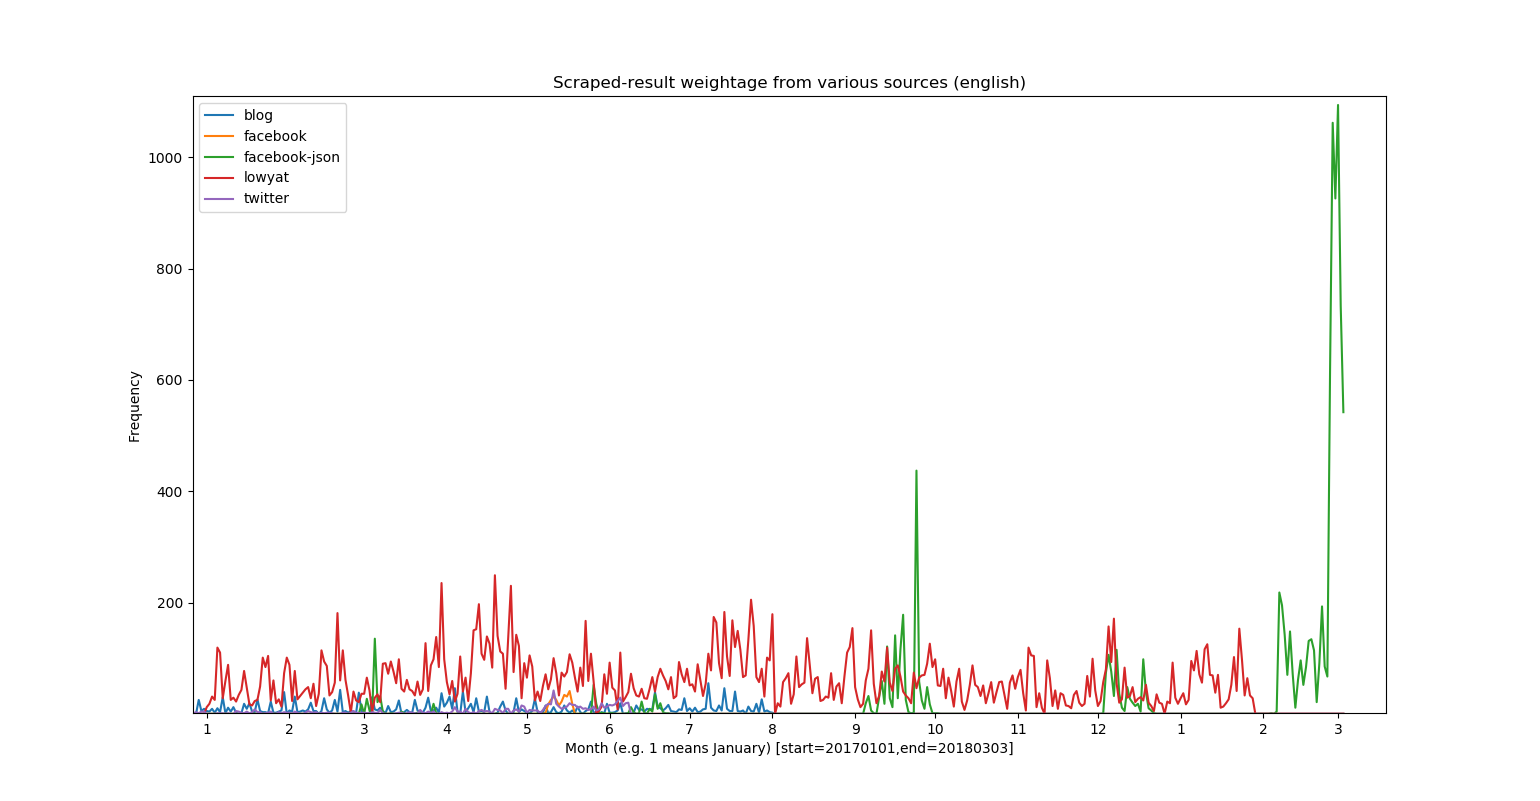
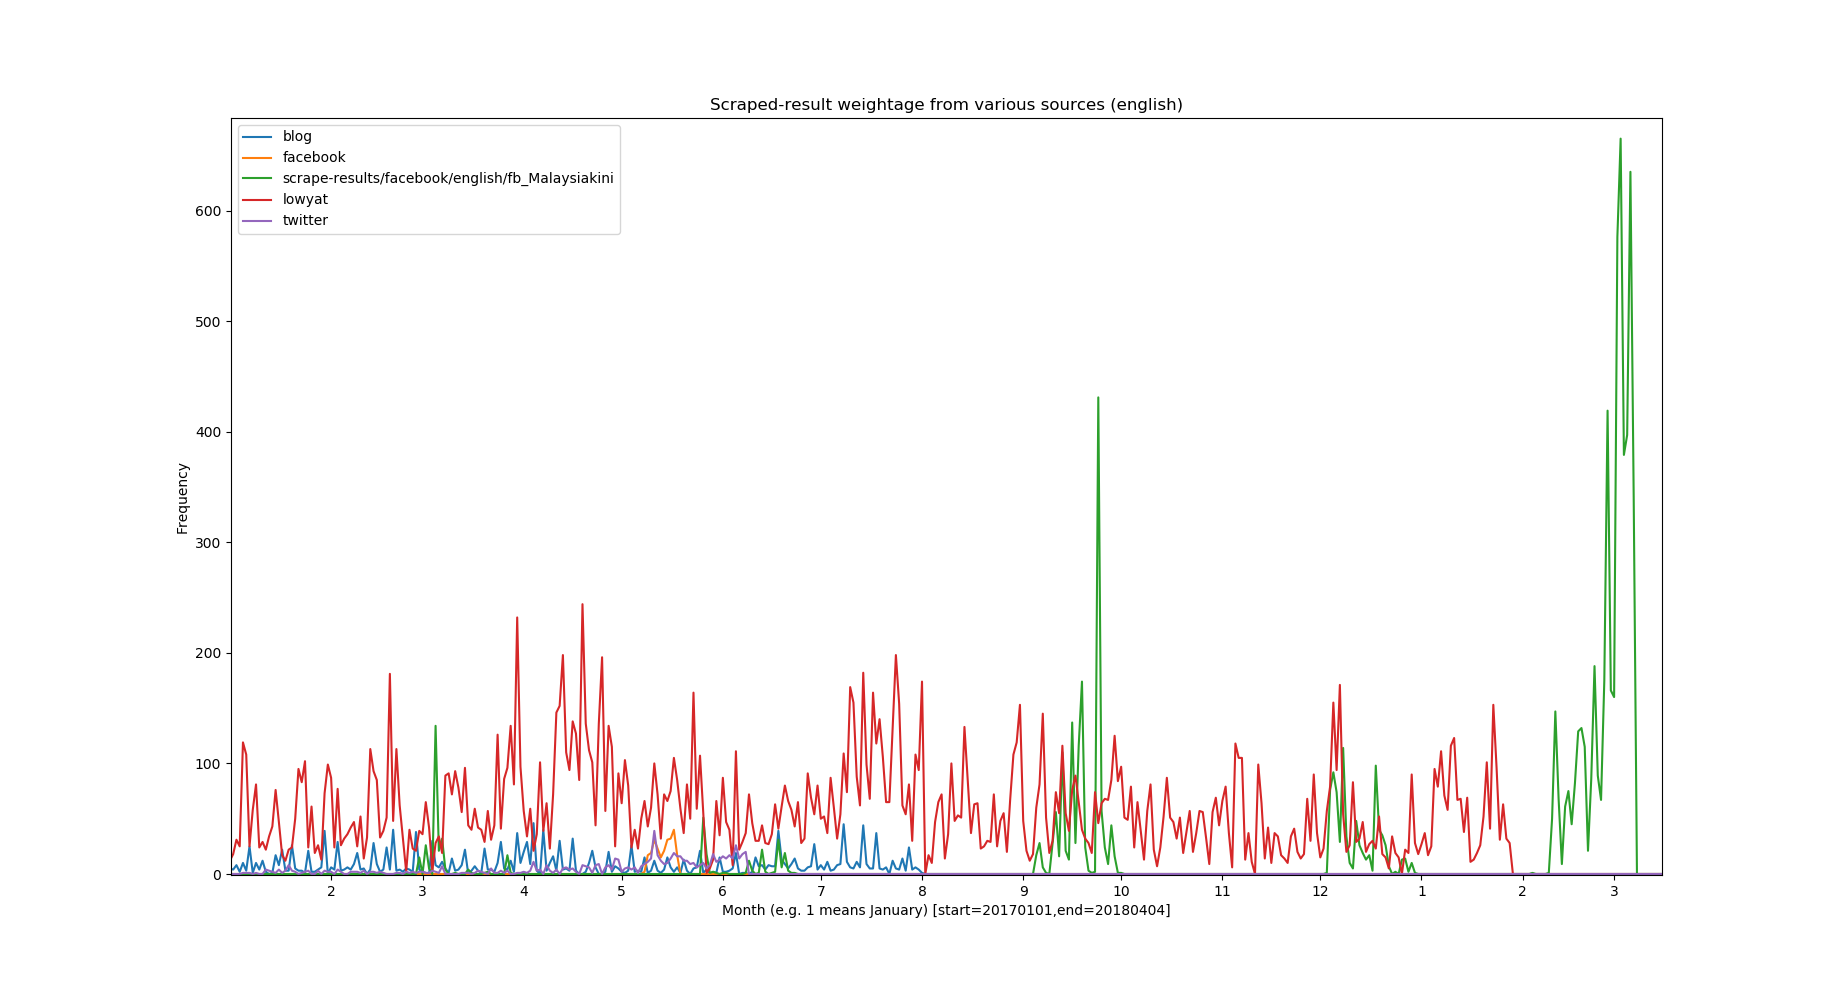
Updated source graph

diff --git a/analysis/_5_analyze_source/main.py b/analysis/_5_analyze_source/main.py
@@ -6,7 +6,7 @@ from analysis._5_analyze_source.plot_graph import plot_graph
 import json
 
 MIN_DATE = '20120601'
-MAX_DATE = '20180303'
+MAX_DATE = '20180404'
 
 
 def main(language):
@@ -33,7 +33,7 @@ def main(language):
         print(len(dic[source_name]))
         dic[source_name] = group_dates(MIN_DATE, MAX_DATE, dic[source_name])
 
-    with open(f'./{language}_source.json', 'w') as outfile:
+    with open(f'analysis/_5_analyze_source/{language}_source.json', 'w') as outfile:
         print("Saving ", {language})
         json.dump(dic, outfile)
 

diff --git a/analysis/_1_process_raw_data/parse_facebook_json.py b/analysis/_1_process_raw_data/parse_facebook_json.py
@@ -1,4 +1,5 @@
 import json
+import ntpath
 from analysis.libs.Post import Post
 
 # ASSUMPTIONS:
@@ -25,7 +26,7 @@ def translate_data_to_post(data_list, file_path):
             p = Post()
             p.date = data["created_time"]
             p.value = str.lower(data["message"])
-            p.source = '_'.join(file_path.split("__")[:2])
+            p.source = '_'.join(ntpath.basename(file_path).split("__")[:2])
             p.origin = file_path
             result.append(p)
         if "comments" in data and len(data["comments"]) > 0:

diff --git a/analysis/_5_analyze_source/plot_graph.py b/analysis/_5_analyze_source/plot_graph.py
@@ -7,7 +7,7 @@ from datetime import timedelta
 
 def plot_graph(language, START_DATE, END_DATE):
     print("Plotting graph . . .")
-    with open(f'{language}_source.json', 'r') as f:
+    with open(f'analysis/_5_analyze_source/{language}_source.json', 'r') as f:
         dic = json.load(f)
         for name in dic:
             y = np.array(dic[name])
